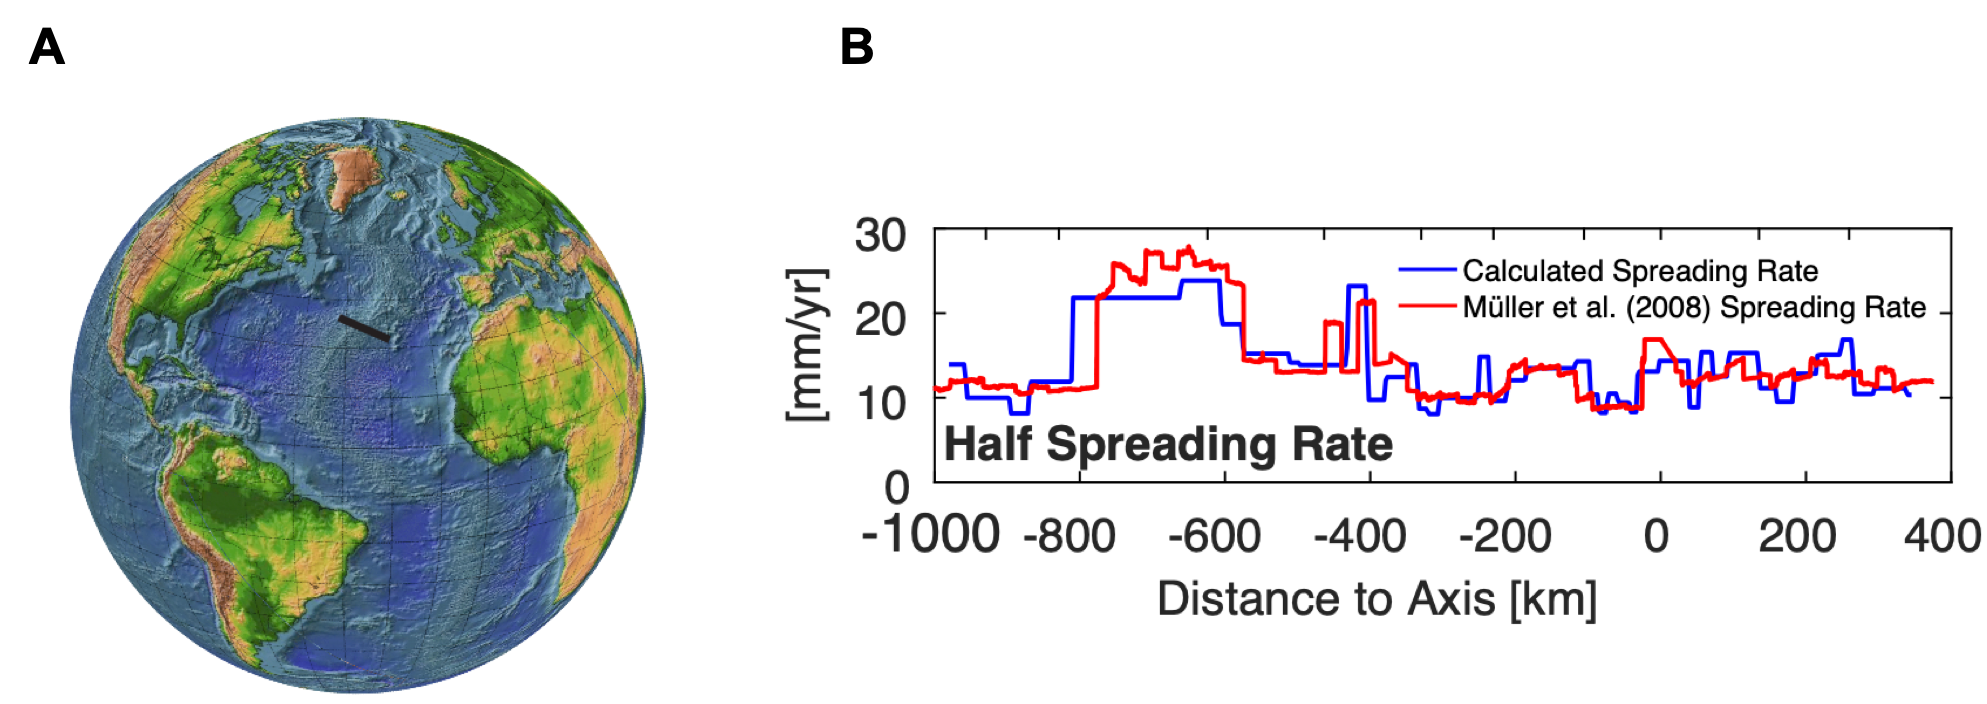
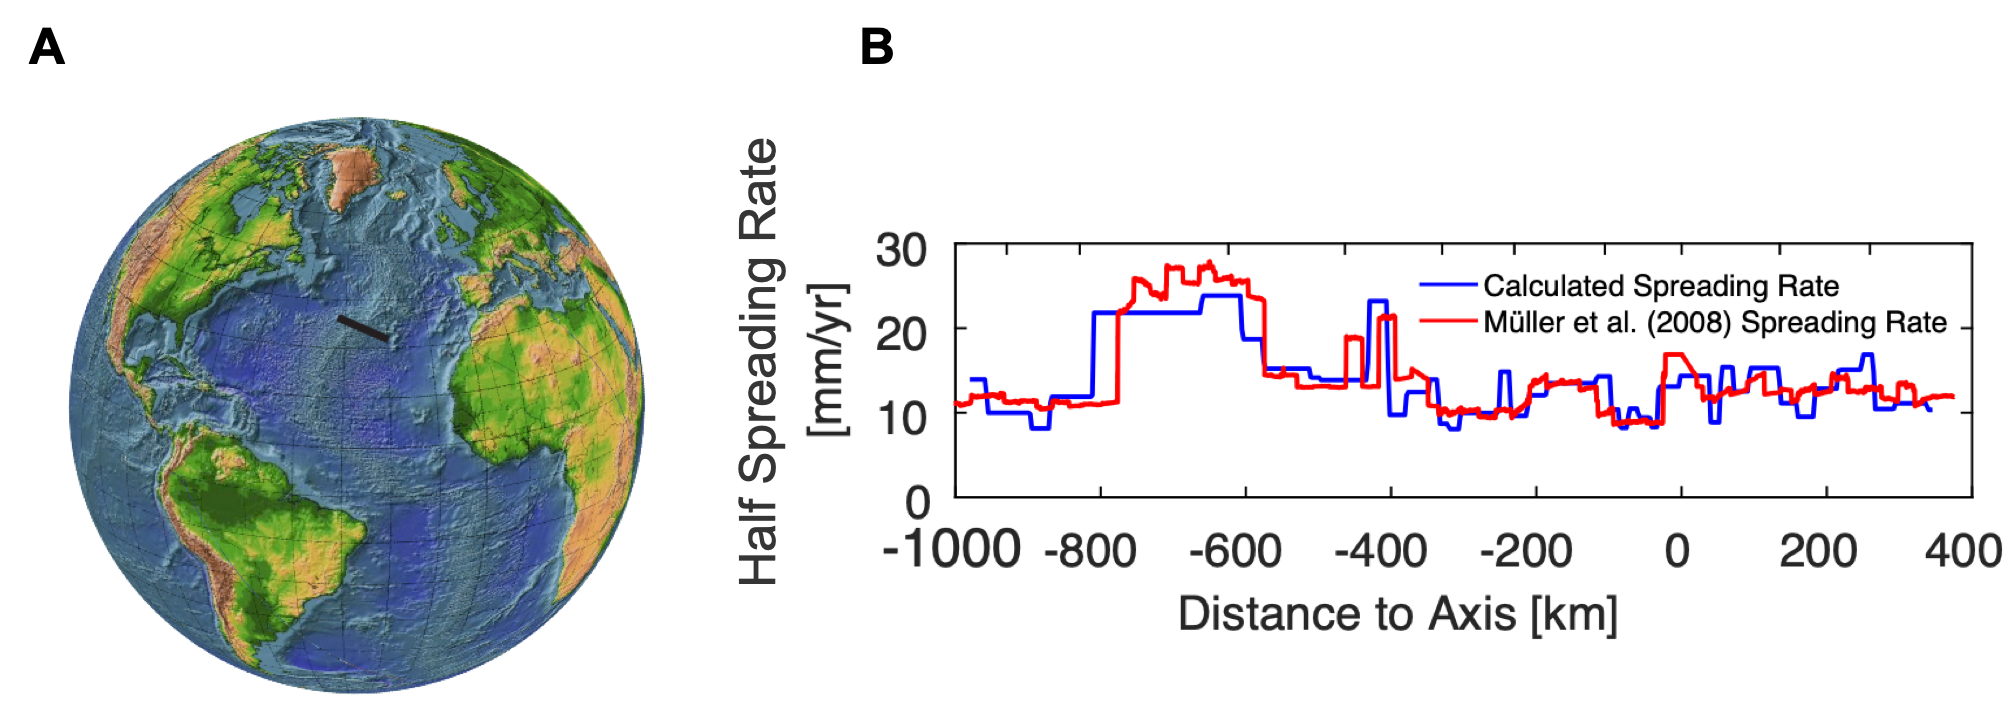
suggestion fixed and abstract

Changed region(s): [[0.0312, 0.1562, 0.9985, 1.0], [0.4056, 0.0312, 0.468, 0.0938], [0.3744, 0.7188, 0.4056, 0.8438]]

diff --git a/thesis.tex b/thesis.tex
@@ -96,7 +96,7 @@ Acknowledments~
 
 \thispagestyle{plain}
 
-\note[HC]{Abstract shortened according to University of Memphis Thesis Style Guide.} Abstract will be here.
+Evidence for asymmetric plate growth, variable crustal thickness, and non-uniform spreading rates is ubiquitous on the seafloor. However, conventional numerical modeling approaches are often incapable of explaining the non-uniform growth of oceanic lithosphere. Noting that plate-boundary forces can dynamically determine plate speed by finding a balance against the resistance to extension at ridge axes, I introduce plate-boundary forces instead of kinematics to drive plate motions in numerical models for mid-ocean ridges. I construct such models using FLAC, an open-source finite element code for geodynamic simulations. My mid-ocean ridge models tested three different boundary conditions: kinematic models, residual net force, $(\boldsymbol{F_{res}})_x$ equals to zero models, and constant boundary force $(\boldsymbol{F_{bdy}})_x$ models. All three shows similar faulting style depending on M value, but plate velocity behave differently. Overall pattern of mean horizontal velocity is constant in kinematic and $(\boldsymbol{F_{res}})_x = 0$ models. Constant $(\boldsymbol{F_{bdy}})_x$ models show changing mean horizontal velocity more than 1 cm/yr in both M = 0.5 and 0.8 models. The model results support the hypothesis that force driven model is necessary to provide an explanation for observed non-uniform seafloor growth. However, the more the models are complex, the less the models are stable and generate noise from remeshing. Further studies in reducing remeshing noise will improve better understanding about the plate velocity.
 
 \newpage
 
@@ -160,7 +160,7 @@ Another evidence for both time-varying and asymmetric seafloor growth comes from
 \begin{figure}[!htb]
 	\centering
 	\includegraphics[width=0.85\linewidth]{./figs/scarf.png}
-	\caption{\textbf{A.} Location of SCARF cruise. Black line is cruise trackline.\textbf{B.} Calculated half spreading rate from measured magnetic data. From \citet{Shinevar2018}.\note[EC]{Put ``Half Spreading Rate'' somewhere else. Maybe next to [mm/yr]?}}
+	\caption{\textbf{A.} Location of SCARF cruise. Black line is cruise trackline. \textbf{B.} Calculated half spreading rate from measured magnetic data. From \citet{Shinevar2018}.}
 	\label{fig:scarf}
 \end{figure}
 
@@ -199,15 +199,22 @@ This approach allowed the lateral position of a modeled dike to explain the cont
     \label{fig:mcartoon}
 \end{figure}
 
-\citet{Buck2005} introduced the ratio of dike opening rate to total plate spreading rate as a parameter for numerical mid-ocean ridge models. This ratio is denoted as M and when given as a parameter for a model, it determines the rate of diking-accommodated plate separation as M times total spreading rate. When M = 0, dikes account for none of the plate spreading (Figure \ref{fig:mcartoon}A); and dikes accommodate all the plate separations when M = 1 (Figure \ref{fig:mcartoon}B). M less than one corresponds to the case where magma supply is insufficient for filling the entire opening created by plate separation and tectonic stretching of the lithosphere should occurs. For M = 1, axial lithospheric separation is all taken up by dike widening and no faults or axial valleys develop.  For 0.5 $<$ M $<$ 1, faults develop and slip at a horizontal rate of \annote[EC]{2$v_p$ (M $-$ 0.5)}{Explain how this expression is derived.} (Figure \ref{fig:mcartoon}C). Since the opening by diking is faster than the rate that the fault offset increases, the fault itself is pushed off axis with time. When pushed far away from the axis, the fault locks because the lithosphere around the fault becomes thicker and stronger. As a result, a new fault forms at the spreading center, continuing to accommodate a part of plate separation. \annote[EC]{The plate containing an active fault is slower than the other plate.}{What do you mean?} %For M = 0, dikes account for none of the plate spreading. 
+\citet{Buck2005} introduced the ratio of dike opening rate to total plate spreading rate as a parameter for numerical mid-ocean ridge models. This ratio is denoted as M and when given as a parameter for a model, it determines the rate of diking-accommodated plate separation as M times total spreading rate. When M = 0, dikes account for none of the plate spreading (Figure \ref{fig:mcartoon}A); and dikes accommodate all the plate separations when M = 1 (Figure \ref{fig:mcartoon}B). M less than one corresponds to the case where magma supply is insufficient for filling the entire opening created by plate separation and tectonic stretching of the lithosphere should occurs. For M = 1, axial lithospheric separation is all taken up by dike widening and no faults or axial valleys develop.  For 0.5 $<$ M $<$ 1, faults develop and slip at a horizontal rate of  $v_d-v_p$, which is 2$v_p$ (M $-$ 0.5) (Figure \ref{fig:mcartoon}C). 
+%\annote[EC]{2$v_p$ (M $-$ 0.5)}{Explain how this expression is derived.}
+\begin{align}
+v_d - v_p &= 2 M v_p - v_p 
+&( M = \frac{v_d}{2 v_p}) \\
+                &= 2v_p (M - 0.5)
+\end{align}
+%(Figure \ref{fig:mcartoon}C). 
+Since the opening by diking is faster than the rate that the fault offset increases, the fault itself is pushed off axis with time. When pushed far away from the axis, the fault locks because the lithosphere around the fault becomes thicker and stronger. As a result, a new fault forms at the spreading center, continuing to accommodate a part of plate separation. 
 
-\note[EC]{Organizing by abyssal hills and OCCs seems to work better. Please read through the following a few paragraphs so that they can all read coherently. You might want to cut out some portions from the SWIR figure to make it smaller but still relevant. Or it might be better to combine the Buck et al's model figure as a panel in the observation figure.}
-Numerical models with M implemented could successfully reproduce the main characteristics of intermediate- and slow-spreading ridges~\citep{Buck2005}. In the case of M = 0.95, the model produces a symmetric pattern of small-offset faults, producing a bathymetric profile similar to abyssal hills around the Southeast Indian Ridge (Figure \ref{fig:mfactor}A). Abyssal hills form at mid-ocean ridge spreading centers by magmatism and normal faulting that occurs alternatingly on both sides of the ridge axis. Figure \ref{fig:abyssalhill}A shows multibeam bathymetry data for Southwest Indian ridge, where abyssal hills are observed and explained as a product of alternating small-offset normal faults. Figure \ref{fig:abyssalhill}B, the bathymetric cross section, displays a symmetric pattern of small-offset faults. Figure \ref{fig:abyssalhill}C and D. point out the feature of abyssal hills more in detail, the offsets of the faults are much smaller than that of detachment fault.
+Numerical models with M implemented could successfully reproduce the main characteristics of intermediate- and slow-spreading ridges~\citep{Buck2005}. In the case of M = 0.95, the model produces a symmetric pattern of small-offset faults, producing a bathymetric profile similar to abyssal hills around the Southeast Indian Ridge (Figure \ref{fig:mfactor}A). Abyssal hills form at mid-ocean ridge spreading centers by magmatism and normal faulting that occurs alternatingly on both sides of the ridge axis. Figure \ref{fig:abyssalhill}A shows the location of Southwest Indian Ridge, another place where abyssal hills are observed and explained as a product of alternating small-offset normal faults. Figure \ref{fig:abyssalhill}B, the bathymetric cross section, displays a symmetric pattern of small-offset faults. Zoom a and zoom b point out the feature of abyssal hills more in detail, the offsets of the faults are much smaller than that of detachment fault.
 %
 \begin{figure}[!htb]
 	\centering
-	\includegraphics[width=0.9\linewidth]{./figs/abyssalhill.png}
-	\caption{\textbf{A.} The location of Southwest Indian Ridge (SWIR). Red box points to area \textbf{B}. \textbf{B.} Multibeam bathymetric data of the SWIR. White line is the ridge axis. \textbf{C.} Bathymetric cross sections along the spreading direction of abyssal hills of \textbf{B}. \textbf{D.} Enlargement on 'zoom a'. Dashed line is fault surface. \textbf{E.} Same with \textbf{D}, but on 'zoom b'. Modified from \citet{Mendel2003}}
+	\includegraphics[width=0.98\linewidth]{./figs/abyssalhill.png}
+	\caption{\textbf{A.} The location of Southwest Indian Ridge (SWIR). Red box points to the area explained in \textbf{B}. \textbf{B.} Bathymetric cross sections along the spreading direction of abyssal hills of SWIR. Zoom a and zoom b clearly point out the small-offset faulting features. Modified from \citet{Mendel2003}}
 	\label{fig:abyssalhill}
 \end{figure}
 
@@ -220,7 +227,7 @@ Oceanic core complexes(OCCs) have been recognized along slow- and ultraslow- spr
 	\label{fig:occ}
 \end{figure}
 %
-The OCC fomration is well reproduced in \citet{Buck2005}'s model for M = 0.5. In their model,  two large offset faults on one side, and a series of small faults on the other side. Lithospheric stretching creates conjugate normal faults at the spreading center initially. Only one branch survives on one side of the ridge, eventually evolving into a detachment fault, while short-lived new faults semi-regularly form on the opposite side. The resultant bathymetric profile resembles that of the slow-spreading Mid-Atlantic Ridge (Figure \ref{fig:mfactor}B).
+The OCC fomration is well reproduced in \citet{Buck2005}'s model for M = 0.5. In their model, two large offset faults on one side, and a series of small faults on the other side. Lithospheric stretching creates conjugate normal faults at the spreading center initially. Only one branch survives on one side of the ridge, eventually evolving into a detachment fault, while short-lived new faults semi-regularly form on the opposite side. The resultant bathymetric profile resembles that of the slow-spreading Mid-Atlantic Ridge (Figure \ref{fig:mfactor}B).
 %
 \begin{figure}[!htb]
 	\centering
@@ -256,15 +263,16 @@ FLAC (Fast Lagrangian Analysis of Continua) method solves the equations describi
 \begin{align}
 \rho \frac{D \mathbf{v}}{Dt} = \nabla \cdot \boldsymbol{\sigma} + \rho \mathbf{b},
 \end{align}
-%
+where $\rho$ is density, $\mathbf{v}$ is velocity, $\boldsymbol{\sigma}$ is stress tensor, and $\mathbf{b}$ is body force%%
 %energy balance equation
-and energy, 
+
+\noindent and energy, 
 \begin{align}
-\rho C_{p} \frac{\partial T}{\partial t} = k \nabla^2 T.
+\rho C_{p} \frac{\partial T}{\partial t} = k \nabla^2 T
 \end{align}
-\note[EC]{Explain what every symbol denotes.}
-%
-for a visco-elastic-plastic continuum in 2-D Cartesian geometry \citep{Cundall1982, Poliakov1993, Lavier2002}. The acceleration term in the momentum conservation equation is  integrated explicitly in time for updated velocities, which in tern are used for updating strain rates, strain and stress. The energy balance equation is similarly integrated to update temperature. The updated variables are used to determine the acceleration as the sum of the internal and external forces for the next time step. The FLAC code that I used for this study is available at \url{https://github.com/heec12/Mscthesis}. The input parameter files necessary for reproducing the results presented in this study are available in the same repository.
+where $C_{p}$ is heat capacity at constant pressure, $T$ is temperature, and $k$ is a coefficient of thermal conductivity
+
+\noindent for a visco-elastic-plastic continuum in 2-D Cartesian geometry \citep{Cundall1982, Poliakov1993, Lavier2002}. The acceleration term in the momentum conservation equation is  integrated explicitly in time for updated velocities, which in tern are used for updating strain rates, strain and stress. The energy balance equation is similarly integrated to update temperature. The updated variables are used to determine the acceleration as the sum of the internal and external forces for the next time step. The FLAC code that I used for this study is available at \url{https://github.com/heec12/Mscthesis}. The input parameter files necessary for reproducing the results presented in this study are available in the same repository.
 
 Materials in my mid-ocean ridge models are assumed to be elasto-visco-plastic. In this rheology, the brittle behavior is modeled by strain-weaking elasto-plasticity and the ductile behavior is modeled by Maxwell visco-elasticity. 
 For visco-elastic deformation, the linear Maxwell viscoelastic model is adopted, in which strain rates are assumed to be the sum of elastic and viscous strain rates.
@@ -347,8 +355,8 @@ For later purposes, the sum of the latter two is termed as an internal force ($\
 	\label{fig:forcescheme}
 \end{figure}
 
-Since \annote[EC]{$F_{int}$}{Why force symbols in this paragraph are not bold? If it is your intention, explain the purpose. Otherwise, be consistent.} is only a response to the boundary force and it is $F_{res}$ that determines how lithosphere accelerates, I control the magnitude of $F_{res}$ to initiate the motion of plates, which are at rest in the beginning, and maintain their speeds at a target value. Since $F_{int}$ would vary in time as faults grow or other changes occur in lithosphere and asthenosphere, setting $F_{res}$ %, the sum of $F_{bdy}$ and $F_{int}$, 
-to be a certain value implies that $F_{bdy}$ is automatically adjusted such that the sum with $F_{int}$ becomes the value. The boundary forces are in practice applied as traction (i.e., surface force per area) in my 2D models with the third dimension assumed to have the unit length. The code internally performs the surface integral of tractions to compute boundary forces.
+Since $(\boldsymbol{F}_{int})_{x}$ is only a response to the boundary force and it is $(\boldsymbol{F}_{res})_{x}$ that determines how lithosphere accelerates, I control the magnitude of $(\boldsymbol{F}_{res})_{x}$ to initiate the motion of plates, which are at rest in the beginning, and maintain their speeds at a target value. Since $(\boldsymbol{F}_{int})_{x}$ would vary in time as faults grow or other changes occur in lithosphere and asthenosphere, setting $(\boldsymbol{F}_{res})_{x}$ %, the sum of $F_{bdy}$ and $F_{int}$, 
+to be a certain value implies that $(\boldsymbol{F}_{bdy})_{x}$ is automatically adjusted such that the sum with $(\boldsymbol{F}_{int})_{x}$ becomes the value. The boundary forces are in practice applied as traction (i.e., surface force per area) in my 2D models with the third dimension assumed to have the unit length. The code internally performs the surface integral of tractions to compute boundary forces.
 
 The magnitude of the horizontal component of the residual force, $(\boldsymbol{F}_{res})_{x}$ is initially zero but linearly increases with time until plate spreading rate reaches a desirable value. When the plate speed reaches 2.5 cm/yr, I set the magnitude of $(\boldsymbol{F}_{res})_{x}$ to be zero in order to maintatin the velocity of the plate.
 
@@ -378,7 +386,9 @@ To avoid such an undesirable boundary failure, I search for an appropriate rate 
 
 This group of models have prescribed $x$ component boundary force, ($\boldsymbol{F}_{bdy}$)$_x$ on the boundareis of lithosphere. The net force resulting at the boundary nodes, $(\boldsymbol{F}_{res})$, is determined as the sum of $\boldsymbol{F}_{bdy}$ and time-evolving $\boldsymbol{F}_{int}$.
 
-I assign to $(\boldsymbol{F}_{bdy})_x$ the value of time-averaged $(\boldsymbol{F}_{int})_x$ ($\overline{(\boldsymbol{F}_{res})_x}$) from a Case II model with the same value of M. A Case II model with a desired value of M writes $(\boldsymbol{F}_{int})_x$ values on all the side boundary nodes to a file. Those recorded values of $(\boldsymbol{F}_{int})_{x}$ are then averaged over a time period from the mature stage of the first fault to the incipient stage of the next new fault on the opposite side. For instance, in the Case II model with M = 0.8, the alternating faulting occurs (Fig.~\ref{fig:faultstage}). I divde the evolution of alternating faulting into three stages: Incipient, mature and terminal. At the incipent stage (Figure \ref{fig:faultstage}A), a fault forms on one side of the ridge axis. The fault heave increases and fault dip decreases as fault grows during the mature stage (Figure \ref{fig:faultstage}B). The terminal stage is characterized by the replacement of the locked fault by a new near-axis fault on the opposite side of ridge axis. \annote[EC]{In this case, the force-averaging period is the time between the snapshot B and C.}{See if this sentence is true and revise it if not. Also, denote the times of each frame so that one can get the first-order sense of the length of force-averaging period.}
+I assign to $(\boldsymbol{F}_{bdy})_x$ the value of time-averaged $(\boldsymbol{F}_{int})_x$ ($\overline{(\boldsymbol{F}_{res})_x}$) from a Case II model with the same value of M. A Case II model with a desired value of M writes $(\boldsymbol{F}_{int})_x$ values on all the side boundary nodes to a file. Those recorded values of $(\boldsymbol{F}_{int})_{x}$ are then averaged over a time period from the mature stage of the first fault to the incipient stage of the next new fault on the opposite side. 
+When M = 0.5, I simply averaged after the master detachment fault reach the mature stage until the model ends, since no new fault break afterwards.
+In the Case II model with M = 0.8, the alternating faulting occurs (Fig.~\ref{fig:faultstage}). I divde the evolution of alternating faulting into three stages: Incipient, mature and terminal. At the incipent stage (Figure \ref{fig:faultstage}A), a fault forms on one side of the ridge axis. The fault heave increases and fault dip decreases as fault grows during the mature stage (Figure \ref{fig:faultstage}B). The terminal stage is characterized by the replacement of the locked fault by a new near-axis fault on the opposite side of ridge axis. In this case, the force-averaging period is the time between the snapshot B and C.
 %
 \begin{figure}[!htb]
 	\centering
@@ -533,7 +543,7 @@ In addition, except for M, there is one or more factors involved in shaping faul
 
 \chapter{Conclusion}
 
-To provide an explanation of observed non-uniform plate growth, I tested three different boundary conditions in mid-ocean ridge models. All three cases show similar faulting style depending on M value, but there are differences in plate velocities between three models. In kinematic models, $\overline{\boldsymbol{v}}_{x}$ always remain at constant value. Varying the magmatism at the spreading center does not affect the plate speed. Thus, the observations in mid-ocean ridge cannot be explained by existing kinematic models. When $(\boldsymbol{F_{res}})_x = 0$ is given as a boundary condition, the models mimic the behavior of kinematic models. Overall pattern of $\overline{\boldsymbol{v}}_{x}$ remains constant, but slight changes were observed. It possibly come from the faulting, since this small difference in $\overline{\boldsymbol{v}}_{x}$ is only observed in the plate containing fault. Therefore, $\overline{\boldsymbol{v}_{x}}$ is more strongly affected by faulting style than kinematic models. Constant $(\boldsymbol{F_{bdy}})_x$ conditioned models show apparently changing $\overline{\boldsymbol{v}}_{x}$ which cannot be observed in kinematic models and $(\boldsymbol{F_{res}})_x = 0$ models. $\overline{\boldsymbol{v}}_{x}$ change more than 1 cm/yr over 1 Myr which is greater than one third of original plate velocity regardless of faulting styles. The model results support the hypothesis that force driven model is required to explain observed non-uniform plate growth.
+To provide an explanation of observed non-uniform plate growth, I tested three different boundary conditions in mid-ocean ridge models. All three cases show similar faulting style depending on M value, but there are differences in plate velocities between three models. In kinematic models, $\overline{\boldsymbol{v}}_{x}$ always remain at constant value. Varying the magmatism at the spreading center does not affect the plate speed. Thus, the observations in mid-ocean ridge cannot be explained by existing kinematic models. When $(\boldsymbol{F_{res}})_x = 0$ is given as a boundary condition, the models mimic the behavior of kinematic models. Overall pattern of $\overline{\boldsymbol{v}}_{x}$ remains constant, but slight changes less then $\pm 0.2$ cm/yr were observed. It possibly come from the faulting, since this small difference in $\overline{\boldsymbol{v}}_{x}$ is only observed in the plate containing fault. Therefore, $\overline{\boldsymbol{v}_{x}}$ is more strongly affected by faulting style than kinematic models. Constant $(\boldsymbol{F_{bdy}})_x$ conditioned models show apparently changing $\overline{\boldsymbol{v}}_{x}$ which cannot be observed in kinematic models and $(\boldsymbol{F_{res}})_x = 0$ models. $\overline{\boldsymbol{v}}_{x}$ change more than 1 cm/yr over 1 Myr which is greater than one third of original plate velocity regardless of faulting styles. The model results support the hypothesis that force driven model is required to explain observed non-uniform plate growth.
 
 However, the amplitude of remeshing noise is greater than $\overline{\boldsymbol{v}}_{x}$ change. To overcome remeshing noise issue, I forcefully remeshed the models after every several kiloyears. I also tried to decrease the time step immediately after the remeshing events and increase it linearly to its original value over next 1000 time steps. However, none of approaches showed meaningful diminished remeshing noise and hence confidence in $\overline{\boldsymbol{v}}_{x}$ is not sure.
 
